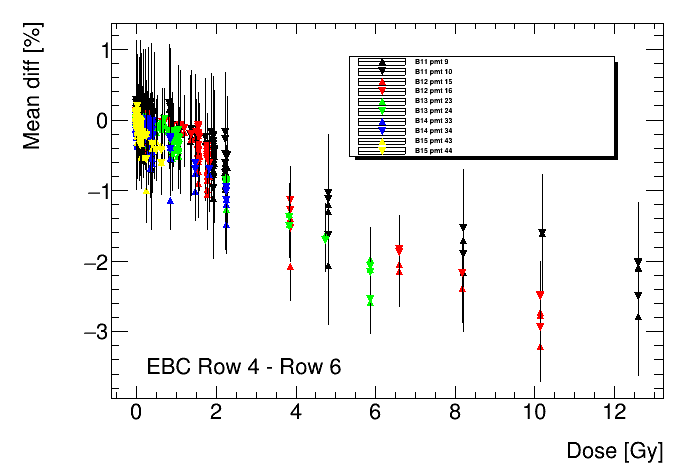
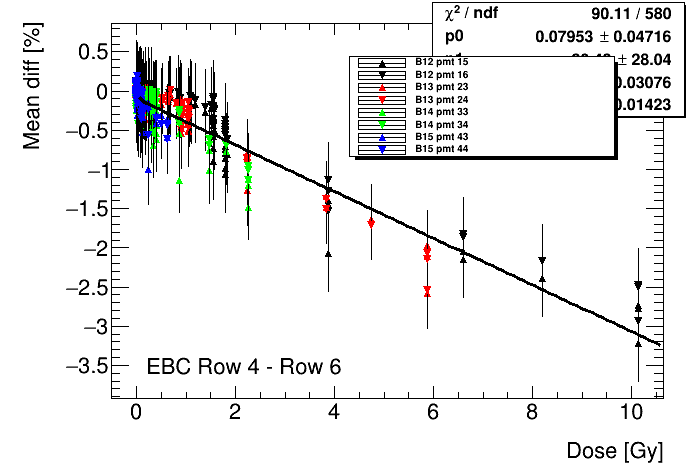
Tried different models to fit the curves. The best model turned out to be exponent + linear. However, exponent + log with the common parameters also fitted the curves well.

diff --git a/FIT/CountROW.cpp b/FIT/CountROW.cpp
@@ -473,12 +473,16 @@ void CountROW(const char *partition, int row_1, int row_2, int iopt=4)
 
      gStyle->SetOptFit(0001); 
      mg->Draw("AP");       
+     //TF1 *f1 = new TF1("f1","expo",0,100);  
+     //TF1 *f1 = new TF1("f1","([0]*TMath::Exp(-[1]*x)-1) + [2] + [3]*x",0,100);  
+     //TF1 *f1 = new TF1("f1","[0]*(TMath::Exp(-x/[1])-1)",0,100);  
+     //TF1 *f1 = new TF1("f1","([0]*TMath::Exp(-[1]*x)-1) + ([2]*TMath::Exp(-[3]*x)-1)",0,100);  
      //TF1 *f1 = new TF1("f1","-[0]*TMath::Log([1]*x+1)",0,100);  
-     //TF1 *f1 = new TF1("f1","[0]*TMath::Exp([1]*x)-1",0,100);  
-     TF1 *f1 = new TF1("f1","pol1",0,100);  
+     TF1 *f1 = new TF1("f1","([0]*TMath::Exp(-[1]*x)-1) - ([0]*TMath::Log([1]*x+1))",0,100);  
+     //TF1 *f1 = new TF1("f1","pol1",0,100);  
      //TF1 *f1 = new TF1("f1","pol3",0,100);  
      //TF1 *f1 = new TF1("f1","pol4",0,100);  
-     mg->Fit("f1","", "", 26, 100);
+     mg->Fit("f1","", "", 0, 90);
      mg->GetXaxis()->SetTitle("Dose [Gy]");
      mg->GetYaxis()->SetTitle("Mean diff [%]");
      gPad->BuildLegend();   
